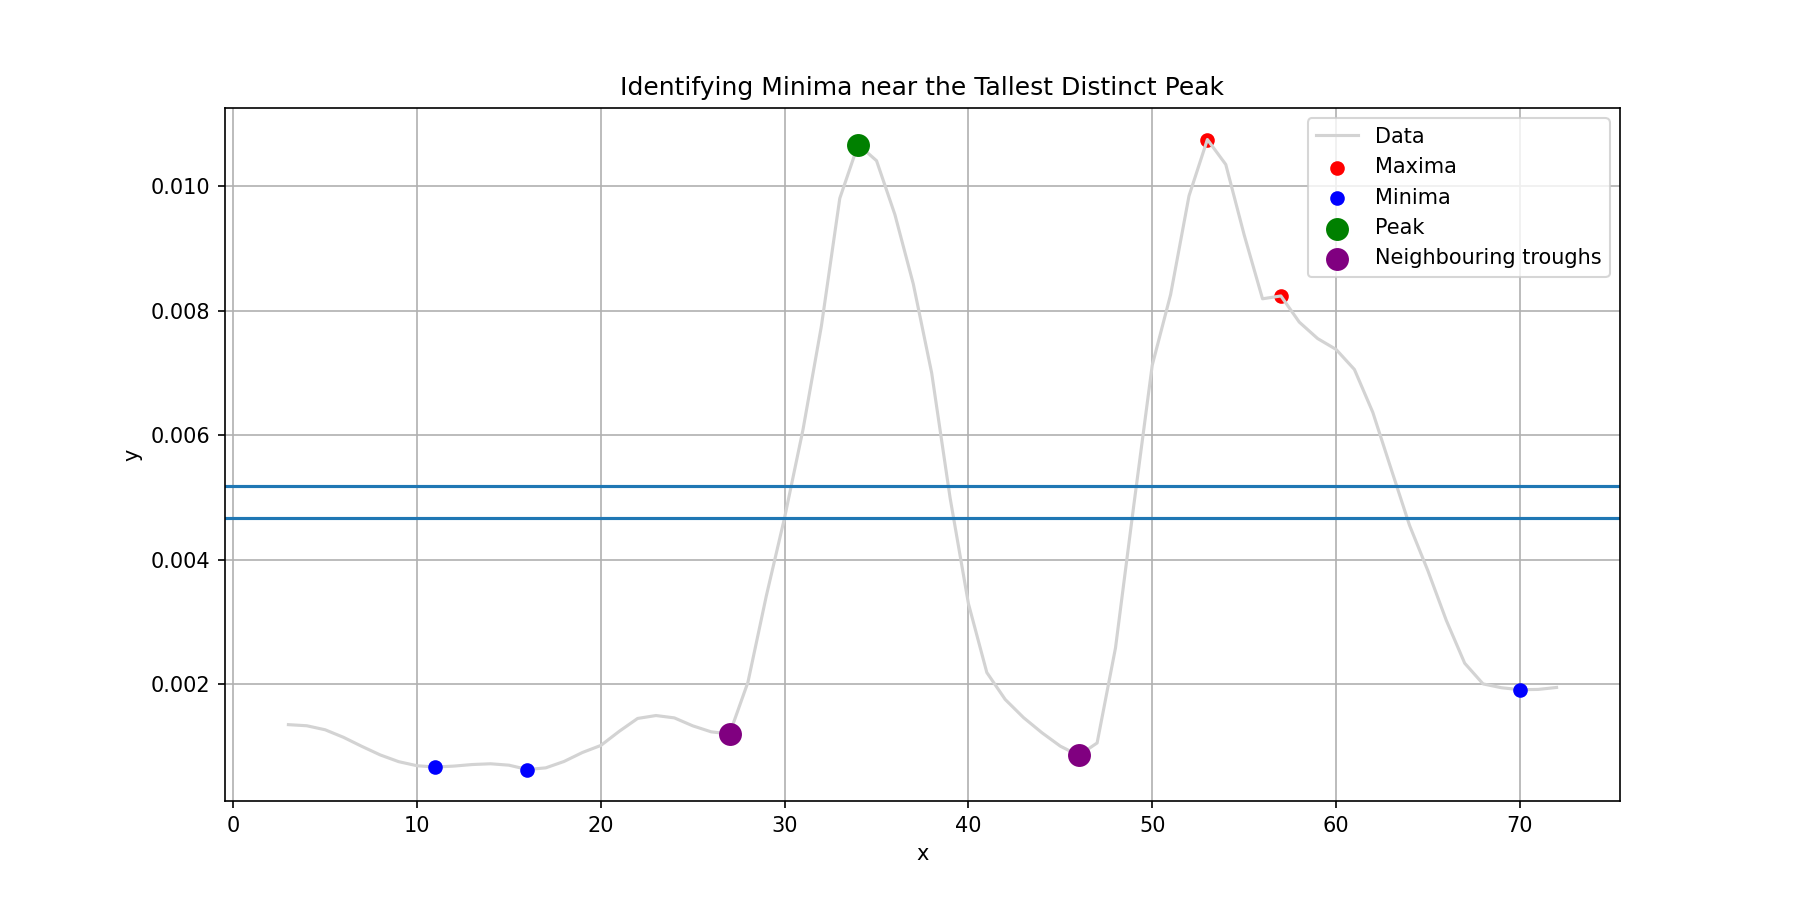
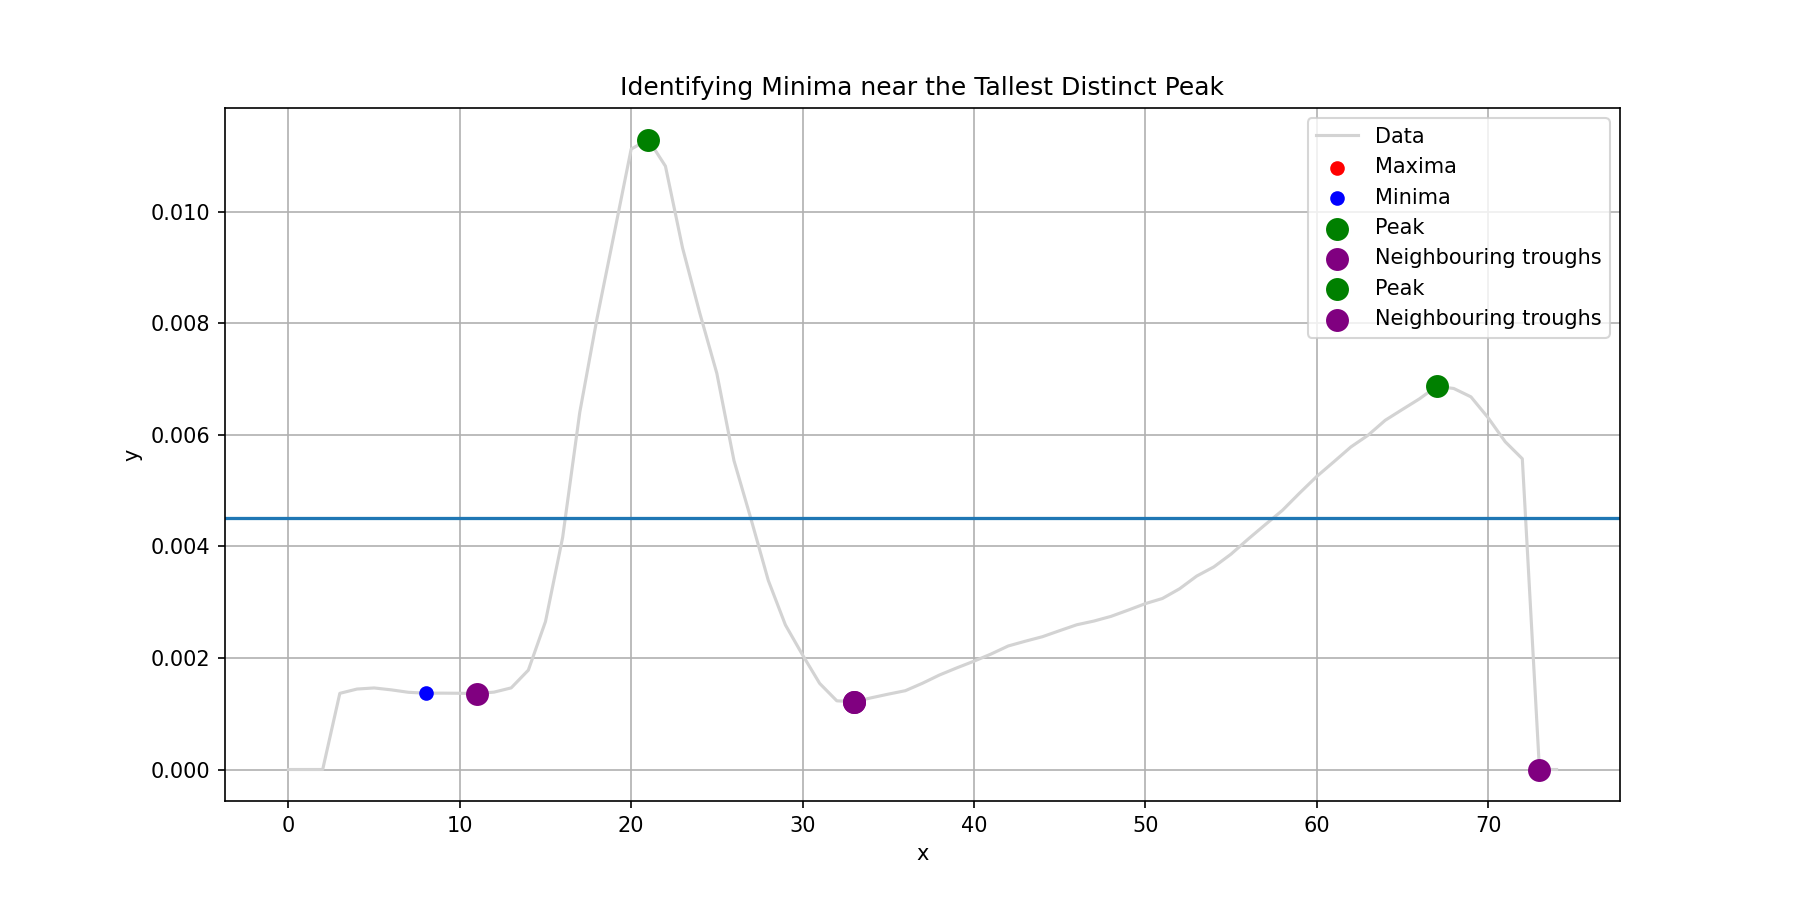
Mode detection - 24/11

diff --git a/mode_detection.py b/mode_detection.py
@@ -19,7 +19,7 @@ from chars import greek, phys
 
 
 
-N=75
+# N=75
 
 cwd = Path(os.getcwd())
 
@@ -51,6 +51,12 @@ def fit_simulation(results_dir):
     file_R = results_dir / files[4]
     file_R_sub = results_dir / files[5]
     print(file_R)
+
+    try:
+        N_str = str(results_dir.parents[0]).rsplit('N=')[1]
+        N = int(N_str)
+    except Exception as e:
+        print(f"No N present in file name - {e}")
 
     R = pd.read_csv(file_R, index_col=0)
     Rsub = pd.read_csv(file_R_sub, index_col=0)
@@ -171,7 +177,7 @@ def fit_simulation(results_dir):
     y_min, y_max = y.min(), y.max()
     # Define thresholds
     trough_threshold = y_min + 0.4 * (y_max - y_min)  # Troughs must be below halfway
-    peak_threshold = y_min + 0.45 * (y_max - y_min)   # Peaks must be above 80%
+    peak_threshold = y_min + 0.4 * (y_max - y_min)   # Peaks must be above
 
     # Filter peaks and troughs based on thresholds
     peaks, _ = find_peaks(y)
@@ -201,10 +207,10 @@ def fit_simulation(results_dir):
     # print(pt_df)
 
     minima_indices = troughs
-    min_peak_trough_diff = 0.6
+    min_peak_trough_diff = 0.4
 
-    max_peak = None # [loc, comparable diff]
-    min_troughs = None # [loc1, loc2]
+    max_peak = {} # [loc, comparable diff]
+    # min_troughs = [] # [loc1, loc2]
 
     for _,peak in enumerate(peaks):
         before_trough = troughs[troughs < peak].max() if (troughs < peak).any() else None
@@ -218,21 +224,40 @@ def fit_simulation(results_dir):
         diff1, diff2 = y[peak] - y[before_trough], y[peak] - y[after_trough]
         diff_min = np.min([diff1, diff2]) # find min proximity in y to trough
 
-        if max_peak == None or max_peak[1] < diff_min:
-            max_peak = [peak,diff_min]
-            min_troughs = [before_trough, after_trough]
+        # if max_peak == None or max_peak[1] < diff_min:
+        # max_peak.append([peak,diff_min])
+        # min_troughs.append([before_trough, after_trough])
+
+        max_peak[f'{peak}'] = [diff_min, before_trough, after_trough]
 
         print(f"Peak at {peak} - before={before_trough}, after={after_trough}, diff {diff_min}")
 
-    try:
-        print(f"Found peak at idx {max_peak[0]}")
-    except:
-        print(f"NO MAX PEAK INDEX; {max_peak}")
+    if len(max_peak) == 0:
         return 0
 
-    if max_peak[1] < (y_max - y_min)*0.4:
-        print("No definative modes found using max of each row, looking at peaks/troughs.")
+    max_peak_sorted = dict(sorted(max_peak.items(), key=lambda item: item[1][0], reverse=True))
+
+    peak_indices_sorted = list(max_peak_sorted.keys())
+    compare_troughs = []
+    # remove if different peak of same troughs
+    for i in range (0, len(peak_indices_sorted)):
+        locs = max_peak_sorted[peak_indices_sorted[i]][1:]
+        if locs in compare_troughs:
+            del max_peak_sorted[peak_indices_sorted[i]]
+        compare_troughs.append(max_peak_sorted[peak_indices_sorted[i]])
+
+    try:
+        print(f"Found peaks at {max_peak_sorted.keys()}")
+    except:
+        print(f"Error with peaks, {max_peak_sorted}")
         return 0
+
+    for i in range(0, len(peak_indices_sorted)):
+        diff = max_peak_sorted[peak_indices_sorted[i]][0]
+        if diff < (y_max - y_min)*min_peak_trough_diff:
+            print("No definative modes found using max of each row, looking at peaks/troughs.")
+            return 0
+
 
 
 
@@ -241,8 +266,12 @@ def fit_simulation(results_dir):
     plt.plot(x, y, label='Data', color='lightgray')
     plt.scatter(x[peaks], y[peaks], color='red', label='Maxima')
     plt.scatter(x[minima_indices], y[minima_indices], color='blue', label='Minima', zorder=5)
-    plt.scatter(x[max_peak[0]], y[max_peak[0]], color='green', label='Peak', s=100, zorder=10)
-    plt.scatter([x[min_troughs[0]], x[min_troughs[1]]], [y[min_troughs[0]], y[min_troughs[1]]], color='purple', label='Neighbouring troughs', s=100, zorder=10)
+
+    for p in peak_indices_sorted:
+        p_ = int(p)
+        plt.scatter(x[p_], y[p_], color='green', label='Peak', s=100, zorder=10)
+        plt.scatter([x[max_peak_sorted[p][1]], x[max_peak_sorted[p][2]]], [y[max_peak_sorted[p][1]], y[max_peak_sorted[p][2]]], color='purple', label='Neighbouring troughs', s=100, zorder=10)
+
     plt.axhline(y=peak_threshold)
     plt.axhline(y=trough_threshold)
     plt.title('Identifying Minima near the Tallest Distinct Peak')
@@ -271,7 +300,7 @@ def fit_simulation(results_dir):
         :param sign: u or n shape (redundant)
         :return: g(x) func result
         """
-        global N
+        nonlocal N
         sign = -1 * c
         xbM = ((x - N/2) ** 2) / M
         f_x = sign*np.sqrt(np.abs( (F + xbM) ))
@@ -291,14 +320,14 @@ def fit_simulation(results_dir):
         :param sign: u or n shape (redundant)
         :return: g(x) func result
         """
-        global N
+        nonlocal N
         sign = 1 * c
         xbM = ((x - N/2) ** 2) / M
         f_x = sign*np.sqrt(np.abs( (F + xbM) ))
         g_x = a + ( f_x / (V*( 1 + (np.abs(f_x) / B) )) )
         return g_x * L
 
-    hyperbolas = [hyperbola_asymptotic_u, hyperbola_asymptotic_n]
+    hyperbolas = [hyperbola_asymptotic_u, hyperbola_asymptotic_n, hyperbola_asymptotic_u, hyperbola_asymptotic_n]
 
     def graph_to_fitted(array: list | float, N: int = N) -> list | float:
         """
@@ -443,40 +472,77 @@ def fit_simulation(results_dir):
 
     # y_min, y_max = min_troughs[1], None
     # y_min, y_max = min_troughs[0], min_troughs[1]
-    if len(min_troughs) == 2:
-        min_troughs.append(None)
-        print(min_troughs)
+    # if len(min_troughs) == 2:
+    #     min_troughs.append(None)
+    #     print(min_troughs)
 
-    results = []
+    results = {}
     r2_threshold = 0.6
 
     # loop - 0 upper, 1 lower
-    for i in range(0, 2):
+    # sign - upper -1, lower 1
+    for i in [0,1,2,3]:
         # print(i)
-        if (i==1) and (1 not in results):
-            print("UPPER MODE NOT FITTED, LOOKING FOR LOWER MODE INSTEAD")
-            y_min, y_max = min_troughs[0], min_troughs[1]
-        else:
-            y_min, y_max = min_troughs[i], min_troughs[i+1]
-        sign = 2*i - 1 # upper -1, lower 1
+        trough_idxs = [max_peak_sorted[key][1:] for key in max_peak_sorted.keys()]
+        y_min_1 = trough_idxs[0][0]
+        y_max_1 = trough_idxs[0][1]
+
+        if i==0:
+            print("MODE 0")
+            try:
+                result = process_fitting(i, y_min_1, y_max_1, -1)
+            except ValueError:
+                result = 0
+            finally:
+                results[str(i)] = result
+
+        elif (i==1) and (results['0']==0):
+            print("MODE 1 - UPPER MODE NOT FITTED, LOOKING FOR LOWER MODE INSTEAD")
+            try:
+                result = process_fitting(i, y_min_1, y_max_1, 1)
+            except ValueError:
+                result = 0
+            finally:
+                results[str(i)] = result
 
         try:
-            result = process_fitting(i, y_min, y_max, sign)
-        except ValueError:
-            result = 0
+            y_min_2 = trough_idxs[1][0]
+            y_max_2 = trough_idxs[1][1]
+        except:
+            continue
 
-        if result == 1:
-            results.append(result)
+        if (i==2) and (results['0']==0):
+            print("MODE 2")
+            try:
+                result = process_fitting(i, y_min_2, y_max_2, -1)
+            except ValueError:
+                result = 0
+            finally:
+                results[str(i)] = result
 
-    if len(results) == 2:
-        print("2 modes present and well fitted")
+        elif (i==3) and (results['0']==1):
+            print("MODE 3")
+            try:
+                result = process_fitting(i, y_min_2, y_max_2, 1)
+            except ValueError:
+                result = 0
+            finally:
+                results[str(i)] = result
+
+        print(f"******** RESULT ********\n{results}")
+
+
+
+
+    if len(results) >= 2:
+        print(f"{len(results)} modes present and well fitted")
     if len(results) == 0:
         print("No modes fitted")
         # print(fitting_data)
         fitting_data = {}
         return 0
     else:
-        print(f"2 modes NOT present - {len(results)} modes fitted")
+        print(f"Modes NOT present - {len(results)} modes fitted")
 
 
     print(fitting_data)
@@ -497,14 +563,15 @@ def fit_simulation(results_dir):
 
 
 
-    k_scan_line = np.linspace(-1/kmax, 1/kmax, 300)
+    k_scan_line = np.linspace(-kmax, kmax, 300)
     x_graphing = np.linspace(0, N+1, 300)
-    k_scan = np.linspace(-1/kmax, 1/kmax, N)
+    k_scan = np.linspace(-kmax, kmax, N)
 
     fig, axs = plt.subplots(1, 1, sharey=True, figsize=(7, 6), dpi=80)
     pcm = axs.pcolor(k_scan,lbda,signalR,cmap='viridis',clim=(0,1))
     m1 = r'{-1}'
-    axs.set(xlabel=f'k$_x^{m1}$ [{greek.mu}m]',xlim=(-1/kmax,1/kmax),ylim=(lbda_max, lbda_min), ylabel='Photon Energy [eV]',title='Upper and lower modes, vertices, asymptotes')
+    axs.set(xlabel=f'k$_x$ [{greek.mu}m{m1}]',xlim=(-kmax,kmax),ylim=(lbda_max, lbda_min), ylabel='Photon Energy [eV]',
+            title=f'Upper and lower modes, vertices, asymptotes\n{results_dir.name}')
     # y_eV = 1.45    # reference line at 1.45eV
     # axs.plot(k_scan,y_eV*k_scan/k_scan,'m--') # reference line at 1.45eV
     cbar =fig.colorbar(pcm,location='right')
@@ -514,7 +581,7 @@ def fit_simulation(results_dir):
     fits = []
     vertices = []
     asyms = []
-    for i in [0,1]:
+    for i in [0,1,2,3]:
         try:
             popt = fitting_data[f'{i}']['popt']
             fit = hyperbolas[i](x_graphing, *popt)
